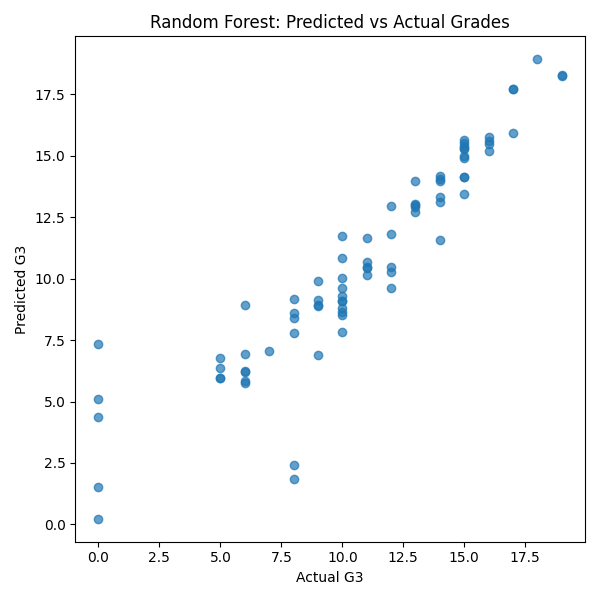
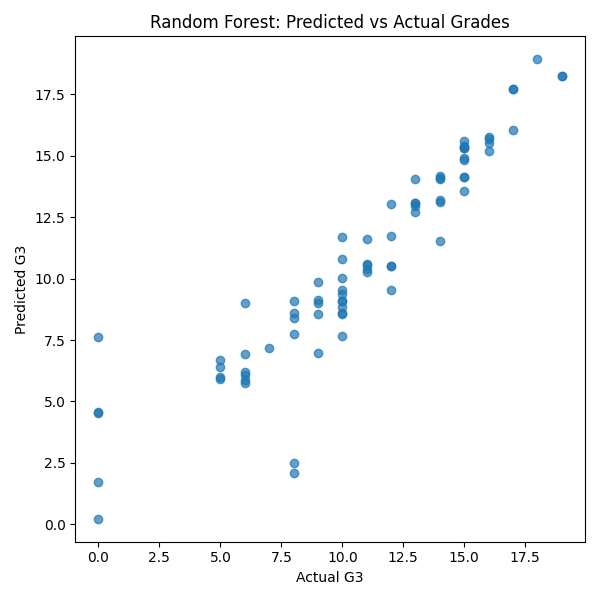
update

diff --git a/SRC/grade_model_with_imd.py b/SRC/grade_model_with_imd.py
@@ -9,48 +9,76 @@ from sklearn.metrics import mean_squared_error, r2_score
 from sklearn.impute import SimpleImputer
 
 # ================================
-# 1. Load Student Maths Dataset
+# 1. Load cleaned student dataset
 # ================================
-students_path = '/Users/yaminkashim/Desktop/Project_data/Data/Raw/student-mat.csv'
-students = pd.read_csv(students_path, sep=';')
+students_path = "/Users/yaminkashim/Desktop/Project_data/Data/Processed/students_cleaned.csv"
+print("Loading cleaned student dataset…")
+students = pd.read_csv(students_path)
+print(f"Student dataset loaded: {students.shape[0]} rows, {students.shape[1]} columns")
 
 # ================================
-# 2. Generate synthetic IMD data
+# 2. Load IMD dataset
 # ================================
-# Simulate deprivation scores from 1 to 32
-np.random.seed(42)
-students['imd_score'] = np.random.randint(1, 33, size=len(students))
+imd_path = "/Users/yaminkashim/Desktop/Project_data/Data/Raw/populationbyimdenglandandwales2020.xlsx"
+print("Loading IMD dataset…")
 
-# Create a dummy area_code (optional)
-students['area_code'] = np.arange(len(students))
+# Skip metadata rows; header is where the real table starts (adjust if needed)
+imd = pd.read_excel(imd_path, header=12)  # Change 12 to the correct row if different
+
+# Check columns
+print("IMD columns detected:")
+print(imd.columns.tolist())
+
+# Rename columns for clarity (adjust names to match your Excel)
+imd = imd.rename(columns={
+    imd.columns[0]: "area_code",      # LSOA / area code column
+    imd.columns[1]: "imd_score"       # IMD score column
+})
+
+# Keep only necessary columns
+imd = imd[["area_code", "imd_score"]]
+
+# Drop rows with missing area_code or imd_score
+imd = imd.dropna(subset=["area_code", "imd_score"])
+
+print(f"IMD dataset loaded: {imd.shape[0]} rows, {imd.shape[1]} columns")
 
 # ================================
-# 3. Encode categorical columns
+# 3. Merge student dataset with IMD
 # ================================
-cat_cols = students.select_dtypes(include=['object']).columns
+# Ensure students have area_code column; if not, create dummy or real mapping
+if "area_code" not in students.columns:
+    students["area_code"] = np.arange(len(students))
+
+students = students.merge(imd, on="area_code", how="left")
+
+# ================================
+# 4. Encode categorical columns
+# ================================
+cat_cols = students.select_dtypes(include=["object"]).columns
 for col in cat_cols:
     students[col] = LabelEncoder().fit_transform(students[col])
 
 # ================================
-# 4. Impute any remaining missing numeric values
+# 5. Impute missing numeric values
 # ================================
 numeric_cols = students.select_dtypes(include=np.number).columns
-imputer = SimpleImputer(strategy='median')
+imputer = SimpleImputer(strategy="median")
 students[numeric_cols] = imputer.fit_transform(students[numeric_cols])
 
 # ================================
-# 5. Features & target
+# 6. Features & target
 # ================================
-X = students.drop('G3', axis=1)
-y = students['G3']
+X = students.drop("G3", axis=1)
+y = students["G3"]
 
 # ================================
-# 6. Train/test split
+# 7. Train/test split
 # ================================
 X_train, X_test, y_train, y_test = train_test_split(X, y, test_size=0.2, random_state=42)
 
 # ================================
-# 7. Linear Regression
+# 8. Linear Regression
 # ================================
 lr_model = LinearRegression()
 lr_model.fit(X_train, y_train)
@@ -61,7 +89,7 @@ print(f"RMSE: {np.sqrt(mean_squared_error(y_test, y_pred_lr)):.2f}")
 print(f"R2 Score: {r2_score(y_test, y_pred_lr):.2f}\n")
 
 # ================================
-# 8. Random Forest
+# 9. Random Forest
 # ================================
 rf_model = RandomForestRegressor(n_estimators=100, random_state=42)
 rf_model.fit(X_train, y_train)
@@ -72,21 +100,21 @@ print(f"RMSE: {np.sqrt(mean_squared_error(y_test, y_pred_rf)):.2f}")
 print(f"R2 Score: {r2_score(y_test, y_pred_rf):.2f}\n")
 
 # ================================
-# 9. Feature Importance
+# 10. Feature Importance
 # ================================
 feat_importance = pd.Series(rf_model.feature_importances_, index=X.columns).sort_values(ascending=False)
 print("=== Random Forest Feature Importance ===")
 print(feat_importance)
 
 # ================================
-# 10. Visualisations
+# 11. Visualisations
 # ================================
 plt.figure(figsize=(10,6))
 feat_importance[:15].plot(kind='barh')
 plt.gca().invert_yaxis()
 plt.title("Top 15 Feature Importances")
 plt.tight_layout()
-plt.savefig('/Users/yaminkashim/Desktop/Project_data/Reports/figures/feature_importance.png')
+plt.savefig("/Users/yaminkashim/Desktop/Project_data/Reports/figures/feature_importance.png")
 plt.show()
 
 plt.figure(figsize=(6,6))
@@ -95,5 +123,5 @@ plt.xlabel("Actual G3")
 plt.ylabel("Predicted G3")
 plt.title("Random Forest: Predicted vs Actual Grades")
 plt.tight_layout()
-plt.savefig('/Users/yaminkashim/Desktop/Project_data/Reports/figures/predicted_vs_actual.png')
+plt.savefig("/Users/yaminkashim/Desktop/Project_data/Reports/figures/predicted_vs_actual.png")
 plt.show()
